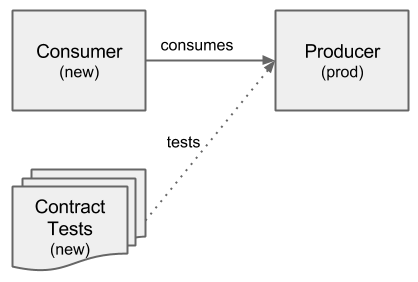
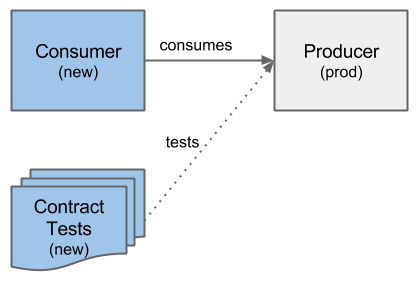
add more content for part4

diff --git a/articles/part4.md b/articles/part4.md
@@ -25,6 +25,10 @@ While it should be easy for every consumer to perform their own contract tests,
 they should also provide a test package for the provider's pipeline or environment.
 That way the provider can preview its own changes and their effect on every consumer.
 
+![Overview Consumer/Producer/Contract Tests](https://github.com/gesellix/pipeline-with-gradle-and-docker/raw/part4/articles/ContractTests_overview.png)
+
+The figure above shows an overview for a combination of consumer, producer and contract tests. Contract tests are shown as tests from the consumer's perspective.
+
 # Contract Tests in Real Life
 
 As easy as it sounds, performing contract tests in continuous deployment pipelines isn't trivial.
@@ -52,7 +56,7 @@ Sometimes neither test stages nor ad hoc services are possible. Then one can cha
 
 The questions above show that runtime dependencies on a database can make things complicated. Similarly to the options we have with services, databases can also be provided via staging, but can also be started as needed. Starting a database spontaneously often implies that they can be thrown away quite easily, so one doesn't need to care about cleanups.
 
-# Contract Test Runners in CI
+# Contract Tests in a CI Environment
 
 In our team we have several combinations of our services being consumer of other services at our company and also being a producer for other services. Our contract test setup isn't limited to our own pipeline, but the other involved services need to perform the contract tests in their pipelines, too.
 
@@ -60,11 +64,40 @@ Contract tests can be triggered either when the producer or when the consumer ch
 
 1. When our service as consumer changes, we need to perform our contract tests against all providers whose API we consume. We need to perform the tests against the productive version of the producers, because we'd like to ensure that our newly built consumer will be working on our production system together with the producers' services.
 
+![Overview Contract Tests with a changed Consumer](https://github.com/gesellix/pipeline-with-gradle-and-docker/raw/part4/articles/ContractTests_new_consumer.png)
+
 2. When a producer changes, it should trigger our contract tests to run against their newly built service. It should choose those tests which match our service in the production environment.
 
-`C -> P'`: `CT(C) -> P'`
+![Overview Contract Tests with a changed Producer](https://github.com/gesellix/pipeline-with-gradle-and-docker/raw/part4/articles/ContractTests_new_producer.png)
 
-`C' -> P`: `CT(C') -> P`
+Both combinations are shown in very similar figures, where only service versions are changed (in blue), but the overall concept stays the same.
 
+# Contract Test Orchestration
 
+We didn't explain how a producer can find and execute the consumer's contract tests. We also didn't explain how a consumer can ask for a testable producer in cases where the production service shouldn't be used. In our case, we try to run a producer on demand, but sometimes we needed to use staged services of other teams.
 
+To solve those orchestrating aspects, we introduced specific contract tester projects. Over time, we added a specific contract tester for every combination of consumer and producer in our responsibility. Both sides of a contract test need to collaborate so that neither of them is enforced to know too many details on how to run a service or perform the contract tests. In our case we started with both consumer and producer being developed in our team, so that we didn't differentiate between both sides very much.
+
+### legacy implementation
+
+Our first incarnation of a contract tester had cross cutting knowledge about consumer and producer, so that we combined all necessary tasks in one Gradle script. To ease the use of the contract tester, we added two tasks which are considered as entrypoints for the producer's and the consumer's pipelines, respectively. Only one of both tasks should be run at a time, with the entrypoints named like:
+* performContracttestsTriggeredBy*Consumer*
+* performContracttestsTriggeredBy*Producer*
+
+Dependent on which of both tasks is run, the contract tester uses the productive or the newly built version of consumer and producer. So, running the `performContracttestsTriggeredByConsumer` task results in the following steps:
+1. resolve the productive version of a producer
+2. download or pull the productive producer
+3. download the consumer's contract tests of the newly built version
+4. run the producer
+5. perform the contract tests
+6. tear down the producer and cleanup
+
+Running the `performContracttestsTriggeredByProducer` only changes the first three steps:
+1. resolve the productive version of a consumer
+2. download or pull the newly built producer
+3. download the consumer's contract tests of the productive version
+4. ...
+
+You'll recognize that only the consumer's and the producer's version are input values. We use the TeamCity *Artifact Dependencies* feature to pass versions of newly built artifacts to the contract test build. The productive versions need to be resolved in a way the service allows us to. Sometimes we can perform a simple HTTP GET on a dedicated URL, sometimes a "resolve" only means to select a stage (dev or prod) where a service is always running.
+
+### current implementation

diff --git a/README.md b/README.md
@@ -12,7 +12,7 @@ gives a thorough overview over the complete pipeline, while each of the followin
 
 * [build, publish](http://wp.me/p1E7sK-nG) ([part2.md](https://github.com/gesellix/pipeline-with-gradle-and-docker/blob/master/articles/part2.md))
 * [e2e test](http://wp.me/p1E7sK-oI) ([part3.md](https://github.com/gesellix/pipeline-with-gradle-and-docker/blob/master/articles/part3.md))
-* contract test
+* [contract test](...) ([part4.md](https://github.com/gesellix/pipeline-with-gradle-and-docker/blob/master/articles/part4.md))
 * build image
 * deploy on dev
 * deploy on prod
